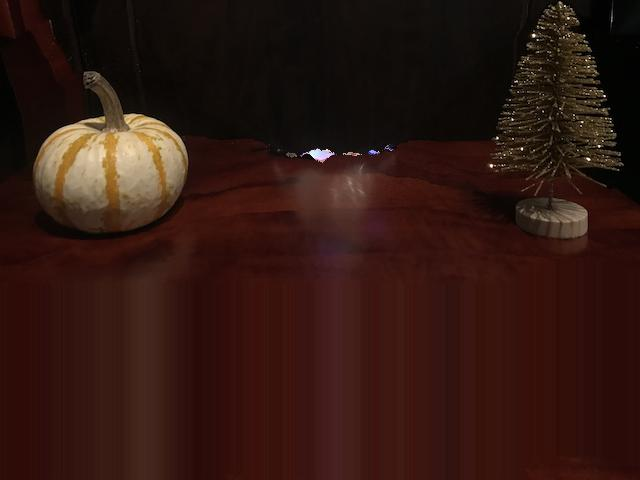
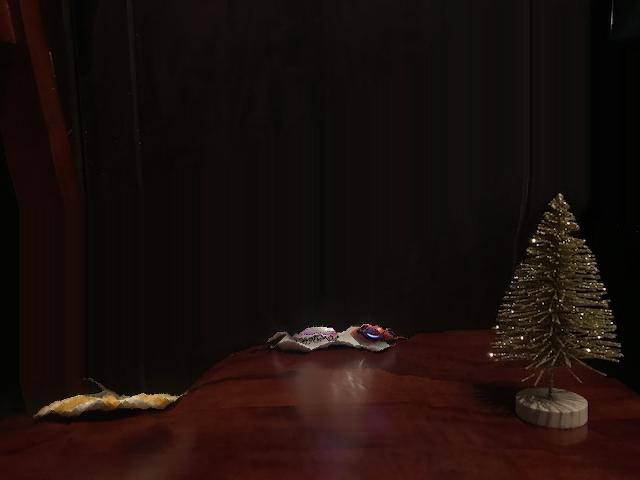
Updated website

diff --git a/index.html b/index.html
@@ -42,7 +42,7 @@ color: #FF9900;
 
 <!-- Abstract -->
 <h3>Abstract</h3>
-<p>The goal of this project is to allow users to easily remove certain objects from an image so that they can use it as a Zoom background. The motivation for this project comes from the idea that it can be difficult to find areas with no distracting objects in the background to use in professional Zoom meetings. To do this, we use connected components labeling to identify distinct objects as blobs and allow the user to click on the blobs they would like to remove. Our program then removes seams from the portion of the image containing the object and adds minimal seams back so the picture remains the same size but the object is no longer visible. The results showed that images containing objects with high contrast from their background had the most successful results and resulted in the least visible interruptions in the output. It was also found that objects being removed from patterned or multi colored backgrounds often yielded the worst results with very apparent disruptions.</p>
+<p>The goal of this project is to allow users to easily remove certain objects from an image so that they can use it as a Zoom background. The motivation for this project comes from the idea that it can be difficult to find areas with no distracting objects in the background to use in professional Zoom meetings. To do this, we use adaptive Gaussian thresholding to divide the image into foreground and background. We then use connected components labeling to identify distinct objects as blobs and allow the user to click on the blobs they would like to remove. Our program then removes seams from the portion of the image containing the object and adds minimal seams back so the picture remains the same size but the object is no longer visible. The results showed that images containing objects with both high and low contrast from their background have successful results and resulted in the least visible interruptions in the output. The change in thresholding technique from the first iteration also resulted in multicolored or irregularly-shaped objects being difficult to detect; however, the algorithm now detects touching objects as distinct objects.</p>
 
 <br><br>
 <!-- Figure -->
@@ -57,34 +57,68 @@ color: #FF9900;
 <br><br>
 <!-- Introduction -->
 <h3>Introduction</h3>
-<p>The goal of our project is to remove distracting items from a scene in order to use the scene as a Zoom background in meetings. We will use a connected components segmentation algorithm to identify the distracting objects as blobs and seam carving algorithms to remove the blobs. A user can input an image and our system will allow the user to select objects to be removed. After the user chooses the blobs to remove, our system outputs a final image which can be used as a clean background. The motivation behind our idea comes from the struggle of having to find a blank wall or clean room whenever we need to join a Zoom meeting. With remote interviews and important meetings, our backgrounds become important in how we present ourselves. The system we are presenting would solve that problem by providing a quickly and easily accessible background that's not distracting (ex: textbooks or clothes behind you or preset ocean background). The domain we are working in would be regular RGB photographs.</p>
+<p>TThe goal of our project is to remove distracting items from a scene in order to use the scene as a Zoom background in meetings. We will use adaptive thresholding to divide the image into foreground and background, connected components segmentation algorithm to identify the distracting objects as blobs from the foreground, and seam carving algorithms to remove the blobs. A user can input an image and our system will allow the user to select objects to be removed. After the user chooses the blobs to remove, our system outputs a final image which can be used as a clean background. The motivation behind our idea comes from the struggle of having to find a blank wall or clean room whenever we need to join a Zoom meeting. With remote interviews and important meetings, our backgrounds become important in how we present ourselves. The system we are presenting would solve that problem by providing a quickly and easily accessible background that's not distracting (ex: textbooks or clothes behind you or preset ocean background). The domain we are working in would be regular RGB photographs.</p>
 
 
 <br><br>
 <!-- Approach -->
 <h3>Approach</h3>
 <p>To go about getting rid of unwanted objects in images, we first use connected component labeling to detect different blobs in the image. One of the other early segmentation techniques attempted was mean shift, but this was found to be ineffective because it resulted in objects in different locations of the image with roughly the same color being considered a single object. This made it especially hard to correctly segment multi colored objects and different objects with similar colors. Using deformable contours was also attempted, but this method made it much harder to correctly identify objects of some shapes.</p>
-<p>Therefore, connected components ended up being the chosen segmentation technique because it is able to recognize objects that are multicolored as well as any shape. This algorithm uses binary thresholding on grayscale images to separate the image into foreground and background based on color, and labels the different blobs in the foreground. We drew inspiration from https://iq.opengenus.org/connected-component-labeling/ as the basis for detecting the connected components in the image. For each image, we modified the thresholding parameters utilized in the code above. Images with light backgrounds used inverse binary thresholding, images with dark backgrounds used binary thresholding, and the threshold level was adjusted for each image depending on the level of contrast.
-From there, the user is presented with an image containing only the detected blobs with the background removed as shown below.</p>
+<p>Therefore, connected components ended up being the chosen segmentation technique because it is able to recognize objects that are multicolored as well as any shape. This algorithm uses binary thresholding on grayscale images to separate the image into foreground and background based on color, and labels the different blobs in the foreground. We drew inspiration from https://iq.opengenus.org/connected-component-labeling/ as the basis for detecting the connected components in the image. For each image, we modified the thresholding parameters utilized in the code above. In our first iteration, we utilized binary thresholding to determine the foreground and background of images. Images with light backgrounds used inverse binary thresholding, images with dark backgrounds used binary thresholding, and the threshold level was adjusted for each image depending on the level of contrast. In our second iteration, we decided to utilize an adaptive Gaussian threshold. Adaptive thresholding helps determine which parts of the image should be in the foreground and background without setting a threshold value. This helped to remove issues caused by shadows and differences in lighting. Instead, there is a window size that determines the size of the neighborhood for the Gaussian window, and a constant that removes extraneous edges that are detected. From there, the user is presented with an image containing only the detected blobs with the background removed as shown below.</p>
 <br>
 <!-- Show Blobs Figure -->
 <div style="text-align: center;">
-<img style="height: 300px;" alt="" src="results/light.jpeg.selection.jpeg">
+<figure>
+  <img style="height: 300px;" alt="" src="results/touching.JPG.selection.jpeg">
+  <figcaption>Midterm Update</figcaption>
+</figure>
+<figure>
+  <img style="height: 300px;" alt="" src="finalResults/selectionImages/touching.JPG.selection.jpeg">
+  <figcaption>Final Update</figcaption>
+</figure>
 </div>
 <br>
-<p>We chose to keep the original pixel values when displaying the blobs to the user rather than display each individual blob with a uniform color in an effort to make the objects recognizable to the user. Originally, the potential objects that a user could remove were going to be highlighted in some uniform color. However, it was found that some of the images appeared very cluttered with many different objects highlighted, and it was hard for a user to recognize objects in the picture. Therefore, the original pixel values from the image are displayed to the user, and the user can then select the blobs they would like to remove by clicking on a point within each object.
-The system then determines which blobs those points belong to and marks all pixels in those blobs for removal as shown below.</p>
+<p>We chose to keep the original pixel values when displaying the blobs to the user rather than display each individual blob with a uniform color in an effort to make the objects recognizable to the user. Originally, the potential objects that a user could remove were going to be highlighted in some uniform color. However, it was found that some of the images appeared very cluttered with many different objects highlighted, and it was hard for a user to recognize objects in the picture. Therefore, the original pixel values from the image are displayed to the user, and the user can then select the blobs they would like to remove by clicking on a point within each object. The system then determines which blobs those points belong to and marks all pixels in those blobs for removal. The segmentation outputs a numpy array that is the same size as the input image and contains 1’s where the object(s) to be removed are located and 0’s everywhere else that can be used as a mask as shown below.</p>
 <br>
 <!-- Selected Blobs Figure -->
 <div style="text-align: center;">
-<img style="height: 300px;" alt="" src="results/light.jpeg.display_selected.jpeg">
+<figure>
+  <img style="height: 300px;" alt="" src="results/touching.JPG.mask.jpeg">
+  <figcaption>Midterm Update</figcaption>
+</figure>
+<figure>
+  <img style="height: 300px;" alt="" src="finalResults/masks/touching.JPG.mask.invert.jpeg">
+  <figcaption>Final Update</figcaption>
+</figure>
 </div>
 <br>
-<p>We then use seam carving methods to remove the unwanted objects that we found during segmentation. To do this, we started working with the result from the segmentation. The numpy array from segmentation is loaded into the seam carving file. This array is changed to be an array of boolean values based on whether each pixel is a 1 or 0. This array is then transformed into an image to be the mask that will be removed using seam carving. For each image, we compute the energy image and the cumulative minimum energy map. Then, in order to replace the seams from the removed object, we took an approach similar to removing seams. We found the minimal seam and inserted it over the gap as shown below. This completely filled in the gap created by the object removal from the previous step.</p>
+<p>After discovering that our segmentation technique often resulted in the outer edges of the object failing to be removed, we implemented a buffer to slightly increase the size of the object to ensure that the entire object gets removed. To execute this, we looped over the pixels forming the border of the blob and determined which direction from this pixel marked a transition from blob to background. We then changed the background pixels surrounding the blob within distance neighborhood_size / 2 from the blob border pixel from 0s to 1s in the mask. This resulted in a “buffer” of width neighborhood size / 2 around the entire object that helped ensure the entire object gets removed.</p>
+<p>We then use seam carving methods to remove the unwanted objects that we found during segmentation. To do this, we first read in the mask that is output from the segmentation. The mask is used to weight the energy of the pixels containing the object to be removed to a very negative number so they are guaranteed to have minimal energy. For each image, we compute the energy image and the cumulative minimum energy map. For our project midterm update we computed both the vertical and horizontal minimal seams and chose the minimum energy of the two to remove. To make our final update more efficient, we first compute the total height and width of the object(s) to be removed using the mask and transpose the image if the object is wider than it is tall so we can just remove vertical seams every time. In addition, we changed our seam carving algorithm to recompute the cumulative energy map between each seam removal in our final project update to more accurately find the minimal seam to remove. The image with enough seams removed to completely remove the object is shown below.</p>
 <br>
 <!-- Filled-In Object Figure -->
 <div style="text-align: center;">
-<img style="height: 300px;" alt="" src="results/light.jpeg.removed.jpeg">
+<figure>
+  <img style="height: 200px;" alt="" src="results/touching.JPG.remove_part1.jpeg">
+  <figcaption>Midterm Update</figcaption>
+</figure>
+<figure>
+  <img style="height: 300px;" alt="" src="finalResults/reducedImages/touching.JPG.reduced.jpeg">
+  <figcaption>Final Update</figcaption>
+</figure>
+</div>
+<br>
+<p>Then, in order to replace the seams from the removed object, we took an approach similar to removing seams. We found the minimal seam and inserted it over the gap. This completely filled in the gap created by the object removal from the previous step. The improvement of recalculating the cumulative energy map after each addition of a seam also helped to smooth out the results and disrupt the images less with the insertion of seams. Finally, after adding back in enough seams to return the image to its original dimensions, we transposed the image back if it had been transposed to obtain the final result shown below.</p>
+<br>
+<!-- Filled-In Object Figure -->
+<div style="text-align: center;">
+<figure>
+  <img style="height: 300px;" alt="" src="results/touching.JPG.remove_part2.jpeg">
+  <figcaption>Midterm Update</figcaption>
+</figure>
+<figure>
+  <img style="height: 300px;" alt="" src="finalResults/finalImages/touching.JPG.result.jpeg">
+  <figcaption>Final Update</figcaption>
+</figure>
 </div>
 
 
@@ -104,7 +138,7 @@ The system then determines which blobs those points belong to and marks all pixe
 <br>
 <ol>
     <li>Take pictures of scenes with various objects to potentially remove.</li>
-    <li>Change the threshold parameters. For images with a light background, we used inverse binary thresholding. For images with a dark background, we used binary thresholding. In addition, the threshold value is adjusted for each image based on the contrast level between the background and the foreground.  We tried to have the threshold value fall in between the darkest part of the background and the lightest part of the foreground.</li>
+    <li>Change the neighborhood size and constant for adaptive thresholding. For images that have a low contrast, we typically utilized a higher neighborhood size so that more edges are detected between images. For images that have more noise, we typically utilized a high constant value so that extraneous objects are not detected. These values were adjusted for each image to account for their unique properties.</li>
     <li>Run our segmentation program and select objects from the original scene to remove.</li>
     <li>Run our blob removal and replacement program to remove the selected objects from the scene.</li>
     <li>Qualitatively evaluate the resulting image by showing it to humans and asking them to identify any inconsistencies with the chosen objects and disruptions they can perceive within the image.</li>
@@ -129,89 +163,111 @@ The system then determines which blobs those points belong to and marks all pixe
 <br>
 <h4>Results</h4>
 <div style="text-align: center;">
+<figure>
   <img style="height: 300px;" alt="" src="results/AccuracyOfObjectRemoval.png">
+  <figcaption>Midterm Update</figcaption>
+</figure>
+<figure>
+  <img style="height: 300px;" alt="" src="finalResults/AccuracyOfObjectRemoval.png">
+  <figcaption>Final Update</figcaption>
+</figure>
 </div>
 <br>
-<p>Per the chart above, 41.7% of our results had exactly the correct amount of the objects removed. A trend we found in this percentage of images is that images with high contrast between the foreground and the background typically removed the expected amount of the image. Since there was a clear threshold with what was the foreground and background, objects and their boundaries were easily detected with the connected components technique. 33.3% of our results had less of the object removed than expected. A trend in these images is that images without high contrast between the foreground and background had less of the object removed than expected. Without high contrast, some portions of the foreground might be considered as background and remain in the image. As you can see in the chart above, 25% of the images had more of the object removed than expected. One trend in these images is that multiple objects were touching. The connected components algorithm does not distinguish between different objects when there is no background in between the objects. Because of this the user might select one object, and several objects might be removed since they are all touching and are therefore detected as one blob.This issue became worse when there were more shadows in the image. When the image had heavy shadows, it was difficult to determine a threshold value that fell in between the foreground and the background since the dark color of the shadow was often found in one of the foreground objects. Therefore, more of the background might be considered foreground, and the shadows even connected different objects into one large object in some scenarios.</p>
+<p>For trends in the accuracy of object removal, we saw 58% of our images (an increase of 16.6% since phase one) displaying the objects removed exactly as expected after implementing adaptive thresholding, object edge buffers, and recalculating the cumulative energy map after each iteration of adding a seam. We still had 25% of our results (a decrease of 8% since phase one) removing less of an object than expected, which is likely due to the over-segmentation of the image causing single objects to be detected as multiple distinct objects. A trend among the images that did not remove enough is that many of them contained objects with more irregular shapes, whereas images containing objects of more simple shapes (squares/rectangles) did not have this issue. This could also be an issue because of objects with lower contrast with the background. To detect these objects, we had to increase the neighborhood size during adaptive thresholding which decreases the amount of the object that is detected. Additionally, 16.7% of our images (a decrease of 8% since phase one) had more than expected removed. This occurred when our segmentation techniques could not fully distinguish the object to be removed from the background. Because of this, portions of the background were removed along with the object.</p>
 <br>
 <div style="text-align: center;">
+<figure>
   <img style="height: 300px;" alt="" src="results/ImageDisruption.png">
+  <figcaption>Midterm Update</figcaption>
+</figure>
+<figure>
+  <img style="height: 300px;" alt="" src="finalResults/ImageDisruption.png">
+  <figcaption>Final Update</figcaption>
+</figure>
 </div>
 <br>
-<p>For trends in the disruption of our image, 83.3% of our results were disrupted to some extent. Outside of the disruptions that were caused by object removal outlined above, a trend found in these images is that they were disrupted by a large addition of seams. In order to remove a selected object, some of our images needed a large number of seams removed. When this same number of seams are added back, it is usually obvious that a large portion of the image is a repeated seam. This causes unrealistic images and sometimes displaces objects. 16.7% of our results were not disrupted. Since adding too many seams caused image disruption, removing small objects usually caused little image disruption. Most images that were not disrupted only had small objects removed.</p>
+<p>For trends in image disruption, we had 50% of our images (an increase of 33.3% since phase one) showing up not disrupted when we added adaptive thresholding, object edge buffers, and recalculating the cumulative energy map after each iteration of adding a seam. This led our results to have only 50% of images displaying some or significant disruption. In low contrast images, our new techniques allowed for little to no disruption when removing objects with little contrast between them and the background due to the added adaptive threshold. In high contrast images, images in the first iteration that had significant disruption were improved with the new approach and had somewhat disruption or no disruption.</p>
 
 <br><br>
 <!-- Qualitative Results -->
 <h3>Qualitative Results</h3>
-<p>In the images below, the input to the program is displayed on the left side and the resulting output with some object(s) removed is displayed on the right side.</p>
+<p>In the images below, the input to the program is displayed on the left side, the resulting output from the first project iteration is in the middle, and the resulting output from the second iteration with some object(s) removed is displayed on the right side.</p>
 <br>
 <div style="text-align: center;">
-  <img style="height: 300px;" alt="" src="data/solidObject.JPG">
-  <img style="height: 300px;" alt="" src="results/solidObject.JPG.removed.jpeg">
+  <img style="height: 200px;" alt="" src="data/solidObject.JPG">
+  <img style="height: 200px;" alt="" src="results/solidObject.JPG.removed.jpeg">
+  <img style="height: 200px;" alt="" src="finalResults/finalImages/solidObject.JPG.result.jpeg">
 </div>
 <br>
-<p>The image above shows an example of a solid colored object being removed from a dark background with which it has high contrast. The portion of the image where the object used to be was replaced effectively, as the outlines of the couch cushions were filled in in a way that does not immediately appear excessively unusual and seems to fit in with the rest of the couch. However, the bottom of the couch did appear somewhat disrupted by additional seams being inserted into it. This is likely because many seams from the couch were removed to get rid of the pillow, and a majority of seams were added back at the bottom of the couch instead of where the pillow used to be.</p>
+<p>The image above shows an example of a solid colored object being removed from a dark background with which it has high contrast. In both iterations of our project, the portion of the image where the object used to be was replaced effectively, as the outlines of the couch cushions were filled in in a way that does not immediately appear excessively unusual and seems to fit in with the rest of the couch. However, the bottom of the couch did appear somewhat disrupted by additional seams being inserted into it. This is likely because many seams from the couch were removed to get rid of the pillow, and a majority of seams were added back at the bottom of the couch instead of where the pillow used to be. In our second iteration, there were improvements on the disruption of couch pillows. Since the cumulative minimal energy map was calculated each time, more optimal seams were removed, and the couch cushions are no longer slanted.</p>
 <br>
 <div style="text-align: center;">
   <img style="height: 300px;" alt="" src="data/highContrast.jpeg">
   <img style="height: 300px;" alt="" src="results/highContrast.jpeg.removed.jpeg">
+  <img style="height: 300px;" alt="" src="finalResults/finalImages/highContrast.jpeg.result.jpeg">
 </div>
 <br>
-<p>The picture above shows an example of an object on top of a solid dark background with which it has high contrast. The object was removed and replaced in a way that caused relatively little disruption to the background and was thus one of the better results obtained from this experiment.</p>
+<p>The picture above shows an example of an object on top of a dark background with which it has high contrast. In both iterations of our project, the object was removed and replaced in a way that caused relatively little disruption to the background and was thus one of the better results obtained from this experiment. The changes implemented in the second phase of our project made the artifact left behind from removing the object slightly less noticeable, and the seams inserted into the image look slightly more natural by eliminating the diagonal disruption in the upper left portion of the image.</p>
 <br>
 <div style="text-align: center;">
   <img style="height: 300px;" alt="" src="data/light.jpeg">
   <img style="height: 300px;" alt="" src="results/light.jpeg.removed.jpeg">
+  <img style="height: 300px;" alt="" src="finalResults/finalImages/light.jpeg.result.jpeg">
 </div>
 <br>
-<p>The image above shows an example of an object (mask on wall) on top of a light background with which it has high contrast. The object was removed and replaced with some noticeable disruption to the image, but not to an extent that the image appears too unusual or unusable as a Zoom background.</p>
+<p>The image above shows an example of an object (mask on wall) on top of a light background with which it has high contrast. In the first iteration, the object was removed and replaced with some noticeable disruption to the image, but not to an extent that the image appears too unusual or unusable as a Zoom background. In the second iteration, most of the object was removed, but the straps remained behind and were elongated to leave some disruption in the resulting image. This is likely because the increased segmentation of the images that helped us detect two touching objects as distinct objects caused the straps to be detected as a separate object from the rest of the mask. This caused the straps to not be removed, and since seams from the pillar were inserted back into the image, some of these seams contained the straps and thus caused the thin line between the two straps in the output above.</p>
 <br>
 <div style="text-align: center;">
   <img style="height: 300px;" alt="" src="data/lowContrast.jpeg">
   <img style="height: 300px;" alt="" src="results/lowContrast.jpeg.removed.jpeg">
+  <img style="height: 300px;" alt="" src="finalResults/finalImages/lowContrast.jpeg.result.jpeg">
 </div>
 <br>
-<p>The image above shows an example of an object (mask on wall) on top of a light background with which it has low contrast. Clearly the results turned out very different than expected and resulted in an image with much interruption that is likely unusable as a Zoom background. This likely happened because the object and its background are too similar in color. The mask is slightly lighter than its background, and due to the way in which the threshold was set for a light background in the connected components portion, an object that is lighter than its background is not viewed as a distinct object. Instead, the program perceived the entire pillar including the mask as one object and attempted to remove the entire pillar.</p>
+<p>The image above shows an example of an object (mask on wall) on top of a light background with which it has low contrast. In the first iteration, the results turned out very different than expected and resulted in an image with much interruption that is likely unusable as a Zoom background. This likely happened because the object and its background are too similar in color. The mask is slightly lighter than its background, and due to the way in which the threshold was set for a light background in the connected components portion, an object that is lighter than its background is not viewed as a distinct object. Instead, the program perceived the entire pillar including the mask as one object and attempted to remove the entire pillar. In the second iteration, the adaptive threshold was able to detect the light colored mask on the light background despite the fact that there is low contrast. Since the thresholding could differentiate the mask and the background, the pillar was not removed, so the image was less disrupted.</p>
 <br>
 <div style="text-align: center;">
-  <img style="height: 300px;" alt="" src="data/dark.jpeg">
-  <img style="height: 300px;" alt="" src="results/dark.jpeg.removed.jpeg">
+  <img style="height: 200px;" alt="" src="data/many.JPG">
+  <img style="height: 200px;" alt="" src="results/many.JPG.removed.jpeg">
+  <img style="height: 200px;" alt="" src="finalResults/finalImages/many.JPG.result.jpeg">
 </div>
 <br>
-<p>The image above displays an example of an object (TV remote) on top of a dark background with which it has low contrast. The object was removed and replaced with some minor interruption to the image, but not severe enough to make it unusable as a Zoom background. The program was able to detect this object with low contrast from its background much better than the image that had low contrast on a light background. This is likely because the threshold for this image was set for a dark background, and the image in front of it is slightly lighter than the background. Because of this, the slightly lighter TV remote was perceived as a distinct object separate from its dark background, which means the remote was removed without removing the rest of its surroundings. Essentially, it has been found that the threshold for dark backgrounds works in detecting objects that are lighter than the background, and the threshold for light backgrounds works in detecting objects that are darker than the backgrounds.</p>
+<p>The image above shows an example of multiple objects to remove on a dark background. The results display the output of an attempt to remove the ghost and the pumpkin from the image. The result from the first iteration from the project successfully removes the entire ghost and pumpkin without remaining any pieces of them behind. However, the resulting image with all of the seams inserted appears severely distorted and resulted in one of the objects that we didn’t want to be affected (tree) to be distorted. The result from the second iteration left behind some parts of the ghost and the pumpkin since the buffer was not wide enough to remove all the borders of the two objects. However, the final output with seams inserted did not distort the rest of the image nearly as much, as the tree and much of the rest of the background remained untouched.</p>
 <br>
 <div style="text-align: center;">
   <img style="height: 300px;" alt="" src="data/multicoloredBackground.JPG">
   <img style="height: 300px;" alt="" src="results/multicoloredBackground.JPG.removed.jpeg">
+  <img style="height: 300px;" alt="" src="finalResults/finalImages/multicoloredBackground.JPG.result.jpeg">
 </div>
 <br>
-<p>The pictures above show a good example of how backgrounds with high contrasting colors can disrupt the image. This image was run as if the sticky note was on a light background. The blue portions of the background and the sticky note were above the threshold, these were detected as blobs. Since the sticky note is touching a portion of the blue background that spans the entire width of the image, this entire section was considered to be one blob and almost all of the image was removed along with this blob. Therefore, only one seam was used for the entire resulting image which is why this is one of the worst resulting images.</p>
+<p>The pictures above show a good example of how backgrounds with high contrasting colors can disrupt the image. In the first iteration, this image was run as if the sticky note was on a light background. The blue portions of the background and the sticky note were above the threshold, these were detected as blobs. Since the sticky note is touching a portion of the blue background that spans the entire width of the image, this entire section was considered to be one blob and almost all of the image was removed along with this blob. Therefore, only one seam was used for the entire resulting image which is why this is one of the worst resulting images. In the second iteration, the adaptive thresholding determines that each diamond from the background is a different object. When the sticky note is selected, it only blends into the diamond on the left hand side of the background. Therefore, a much smaller portion of the image is disrupted since most of the image was previously removed.</p>
 <br>
 <div style="text-align: center;">
-  <img style="height: 300px;" alt="" src="data/touching.JPG">
-  <img style="height: 300px;" alt="" src="results/touching.JPG.removed.jpeg">
+  <img style="height: 200px;" alt="" src="data/touching.JPG">
+  <img style="height: 200px;" alt="" src="results/touching.JPG.removed.jpeg">
+  <img style="height: 200px;" alt="" src="finalResults/finalImages/touching.JPG.result.jpeg">
 </div>
 <br>
-<p>The picture above shows an example of objects that are touching in front of a light background. The program was supposed to remove the TV from the image, but the entire TV and dresser ended up getting removed. This is because the program perceived the TV and dresser as a single object instead of two distinct objects since they are touching and have relatively similar colors. Some of the other objects that were sitting on top of the dresser were not removed because they were light enough to be perceived by the program as separate objects from the TV and dresser.</p>
+<p>The picture above shows an example of objects that are touching in front of a light background. The program was supposed to remove the TV from the image, but in our midterm update the entire TV and dresser ended up getting removed. This is because the program perceived the TV and dresser as a single object instead of two distinct objects since they are touching and have relatively similar colors. Some of the other objects that were sitting on top of the dresser were not removed because they were light enough to be perceived by the program as separate objects from the TV and dresser. With the use of adaptive thresholding, our new program was able to distinguish between the objects on the dresser and the dresser itself. We were able to remove only the TV in the right-hand image using our new program.</p>
 <br>
 <div style="text-align: center;">
   <img style="height: 300px;" alt="" src="data/solidBackground.JPG">
   <img style="height: 300px;" alt="" src="results/solidBackground.JPG.removed.jpeg">
+  <img style="height: 300px;" alt="" src="finalResults/finalImages/solidBackground.JPG.result.jpeg">
 </div>
 <br>
-<p>The image above shows an example of an object on top of a solid colored, dark background with which it had high contrast. This was probably the best result from this experiment, as the object was removed and replaced with no clear disruption to the rest of the image.</p>
+<p>The image above shows an example of an object on top of a solid colored, dark background with which it had high contrast. This was probably the best result from this experiment, as the object was removed and replaced with no clear disruption to the rest of the image. In the first iteration, the sticky note was removed but left a pink mark and the inserted seams somewhat disrupted the flow of the image. In the second iteration, we were able to completely remove the pink note without any residue and the new seams were added towards one end of the image, where they did not disrupt the flow.</p>
 
 <br><br>
 <!-- Conclusion -->
 <h3>Conclusion and Future Work</h3>
-<p>We started this project wanting to be able to help users remove certain objects from their Zoom backgrounds. With the increased use of video chats for school and work, it makes sense that some people might not want certain objects visible on their video screens displayed to other users. We used segmentation to pick out distinct objects on an image (that will be used as the background).We then performed seam carving and used the minimal seam to replace the object in the image identified by segmentation. The minimal seam along with a mask of the desired object was used to remove the object from the image altogether and replace it with a solid color. We found that we were able to make best use of the program by choosing images with objects that have high contrast from their background. There were, however, problems with the program perceiving objects of relatively similar color that are touching as a single object instead of distinct objects. This sometimes resulted in more objects being removed from the image than the user might have expected. There is also a problem with adding seams on patterns or multicolored backgrounds, as the flow of the image can be disrupted by the contrasting colors and textures. This sometimes resulted in seams being inserted to replace an object that did not match the background well.</p>
-<p>As a result of these efforts, we have images, shown previously, that can be used as Zoom backgrounds. However, many of the resulting images have streaks or textures where the object was removed. Therefore, we can improve our approach to make the backgrounds better and less distracting.</p>
+<p>We started this project wanting to be able to help users remove certain objects from their Zoom backgrounds. With the increased use of video chats for school and work, it makes sense that some people might not want certain objects visible on their video screens displayed to other users. We used adaptive thresholding to determine which portions of the image are foreground and background, and then a connected components algorithm to determine distinct objects from the background. The user is then able to select the object they would like to remove. We then performed seam carving and used the minimal seam to replace the object in the image identified by segmentation. The minimal seam along with a mask of the desired object was used to remove the object from the image altogether and replace it with minimal seams. We found that we were able to greatly improve the results of removing objects that were touching other objects. We also found that we were more able than before to detect objects that had low contrast when compared to their backgrounds. Our program is now able to detect objects regardless of their contrast with their background. We found that we were able to make best use of the program by choosing images with relatively regularly shaped objects. For example, the square pillow, square earbud case, square sticky note, and rectangular mask were able to be removed well with our program. However, our segmentation program struggled to detect more minor details of the shapes such as the mask straps as part of the same object. As a result, our program struggled with leaving behind portions of the objects that are shaped more irregularly. Our program also has problems detecting multicolored objects as a single object, as our segmentation method utilizes color as one of the factors to determine the segmentation of distinct objects. As a result, when trying to remove multicolored objects from images, our program would often only remove the portion of the object that was the same color as the selected portion. Users would have to select every portion of the image containing a different color to ensure the entire object is removed.</p>
+<p>As a result of these efforts, we have images, shown previously, that can be used as Zoom backgrounds. However, many of the resulting images have streaks or textures where the object was removed, or they had portions left behind of the objects that were supposed to be removed. Therefore, we can improve our approach to make the backgrounds better and less distracting.</p>
 <p>For the future, we should:</p>
 <ul>
-  <li>Use a combination of mean shift and connected components to identify blobs so objects that are touching are not always interpreted as the same blob.</li>
-  <li>Adjust the program to be applied to light or dark backgrounds using adaptive thresholding.</li>
   <li>Use an image quilting algorithm to fill in seams with texture rather than just an average of the surrounding neighbors.</li>
-  <li>Be able to smooth out gradients that appear as a result of seam carving.</li>
+  <li>Add logic to ensure that the exact same seam is not added repeatedly, even if it is the minimal seam, as this can result in noticeable disruption in the resulting image.</li>
+  <li>Implement logic to determine whether horizontal or vertical seams should be removed from each individual object to remove in the image. It could work better to remove vertical seams from one object and horizontal seams from another object within the same image. This would result in less distortion in the image from seams being moved and added back, especially when multiple objects are removed.</li>
+  <li>Find the balance between segmenting too little--resulting in two touching objects being treated as one object--and segmenting too much--resulting in single objects failing to be entirely removed. For objects that are touching, adaptive thresholding was more successful at removing the correct object. However, for single distinct objects, binary thresholding worked better to remove the entire object. We could implement functionality allowing the user to select whether the object is distinct or touching other objects, which could ensure that the best method of thresholding is used for any object they wish to remove.</li>
 </ul>
 <p>By using these techniques, we can make our approach better by allowing objects in an image to be removed seamlessly and without trace.</p>
 
@@ -220,11 +276,13 @@ The system then determines which blobs those points belong to and marks all pixe
 <h3>References</h3>
 <ul>
   <li>Avidan, S., & Shamir, A. (n.d.). Seam Carving for Content-Aware Image Resizing. Retrieved November 2, 2020, from <a href="https://perso.crans.org/frenoy/matlab2012/seamcarving.pdf">https://perso.crans.org/frenoy/matlab2012/seamcarving.pdf</a></li>
+  <li>Image Filtering. (n.d.). Retrieved November 17, 2020, from <a href="https://docs.opencv.org/master/d4/d86/group__imgproc__filter.html#gaa13106761eedf14798f37aa2d60404c9">https://docs.opencv.org/master/d4/d86/group__imgproc__filter.html#gaa13106761eedf14798f37aa2d60404c9</a></li>
   <li>Joshi, Y. (2020, April 28). Connected Component Labeling. Retrieved November 03, 2020, from <a href="https://iq.opengenus.org/linear-discriminant-analysis-lda/">https://iq.opengenus.org/linear-discriminant-analysis-lda/</a></li>
   <li>Mordvintsev, A. (n.d.). Image Thresholding¶. Retrieved November 03, 2020, from <a href="https://opencv-python-tutroals.readthedocs.io/en/latest/py_tutorials/py_imgproc/py_thresholding/py_thresholding.html">https://opencv-python-tutroals.readthedocs.io/en/latest/py_tutorials/py_imgproc/py_thresholding/py_thresholding.html</a></li>
   <li>Scipy.sparse.csgraph.connected_components¶. (n.d.). Retrieved November 2, 2020, from <a href="https://docs.scipy.org/doc/scipy/reference/generated/scipy.sparse.csgraph.connected_components.html">https://docs.scipy.org/doc/scipy/reference/generated/scipy.sparse.csgraph.connected_components.html</a></li>
   <li>Seam Carving. (n.d.). Retrieved November 2, 2020, from <a href="https://scikit-image.org/docs/0.13.x/auto_examples/transform/plot_seam_carving.html">https://scikit-image.org/docs/0.13.x/auto_examples/transform/plot_seam_carving.html</a></li>
   <li>Project 2: Image Resizing by Seam Carving. (n.d.). Retrieved November 2, 2020, from <a href="http://www.cs.cmu.edu/afs/andrew/scs/cs/15-463/f07/proj2/www/wwedler/">http://www.cs.cmu.edu/afs/andrew/scs/cs/15-463/f07/proj2/www/wwedler/</a></li>
+  <li>Vivianhylee. (n.d.). Vivianhylee/seam-carving. Retrieved November 17, 2020, from <a href="https://github.com/vivianhylee/seam-carving">https://github.com/vivianhylee/seam-carving</a></li>
 </ul>
 
   <hr>
